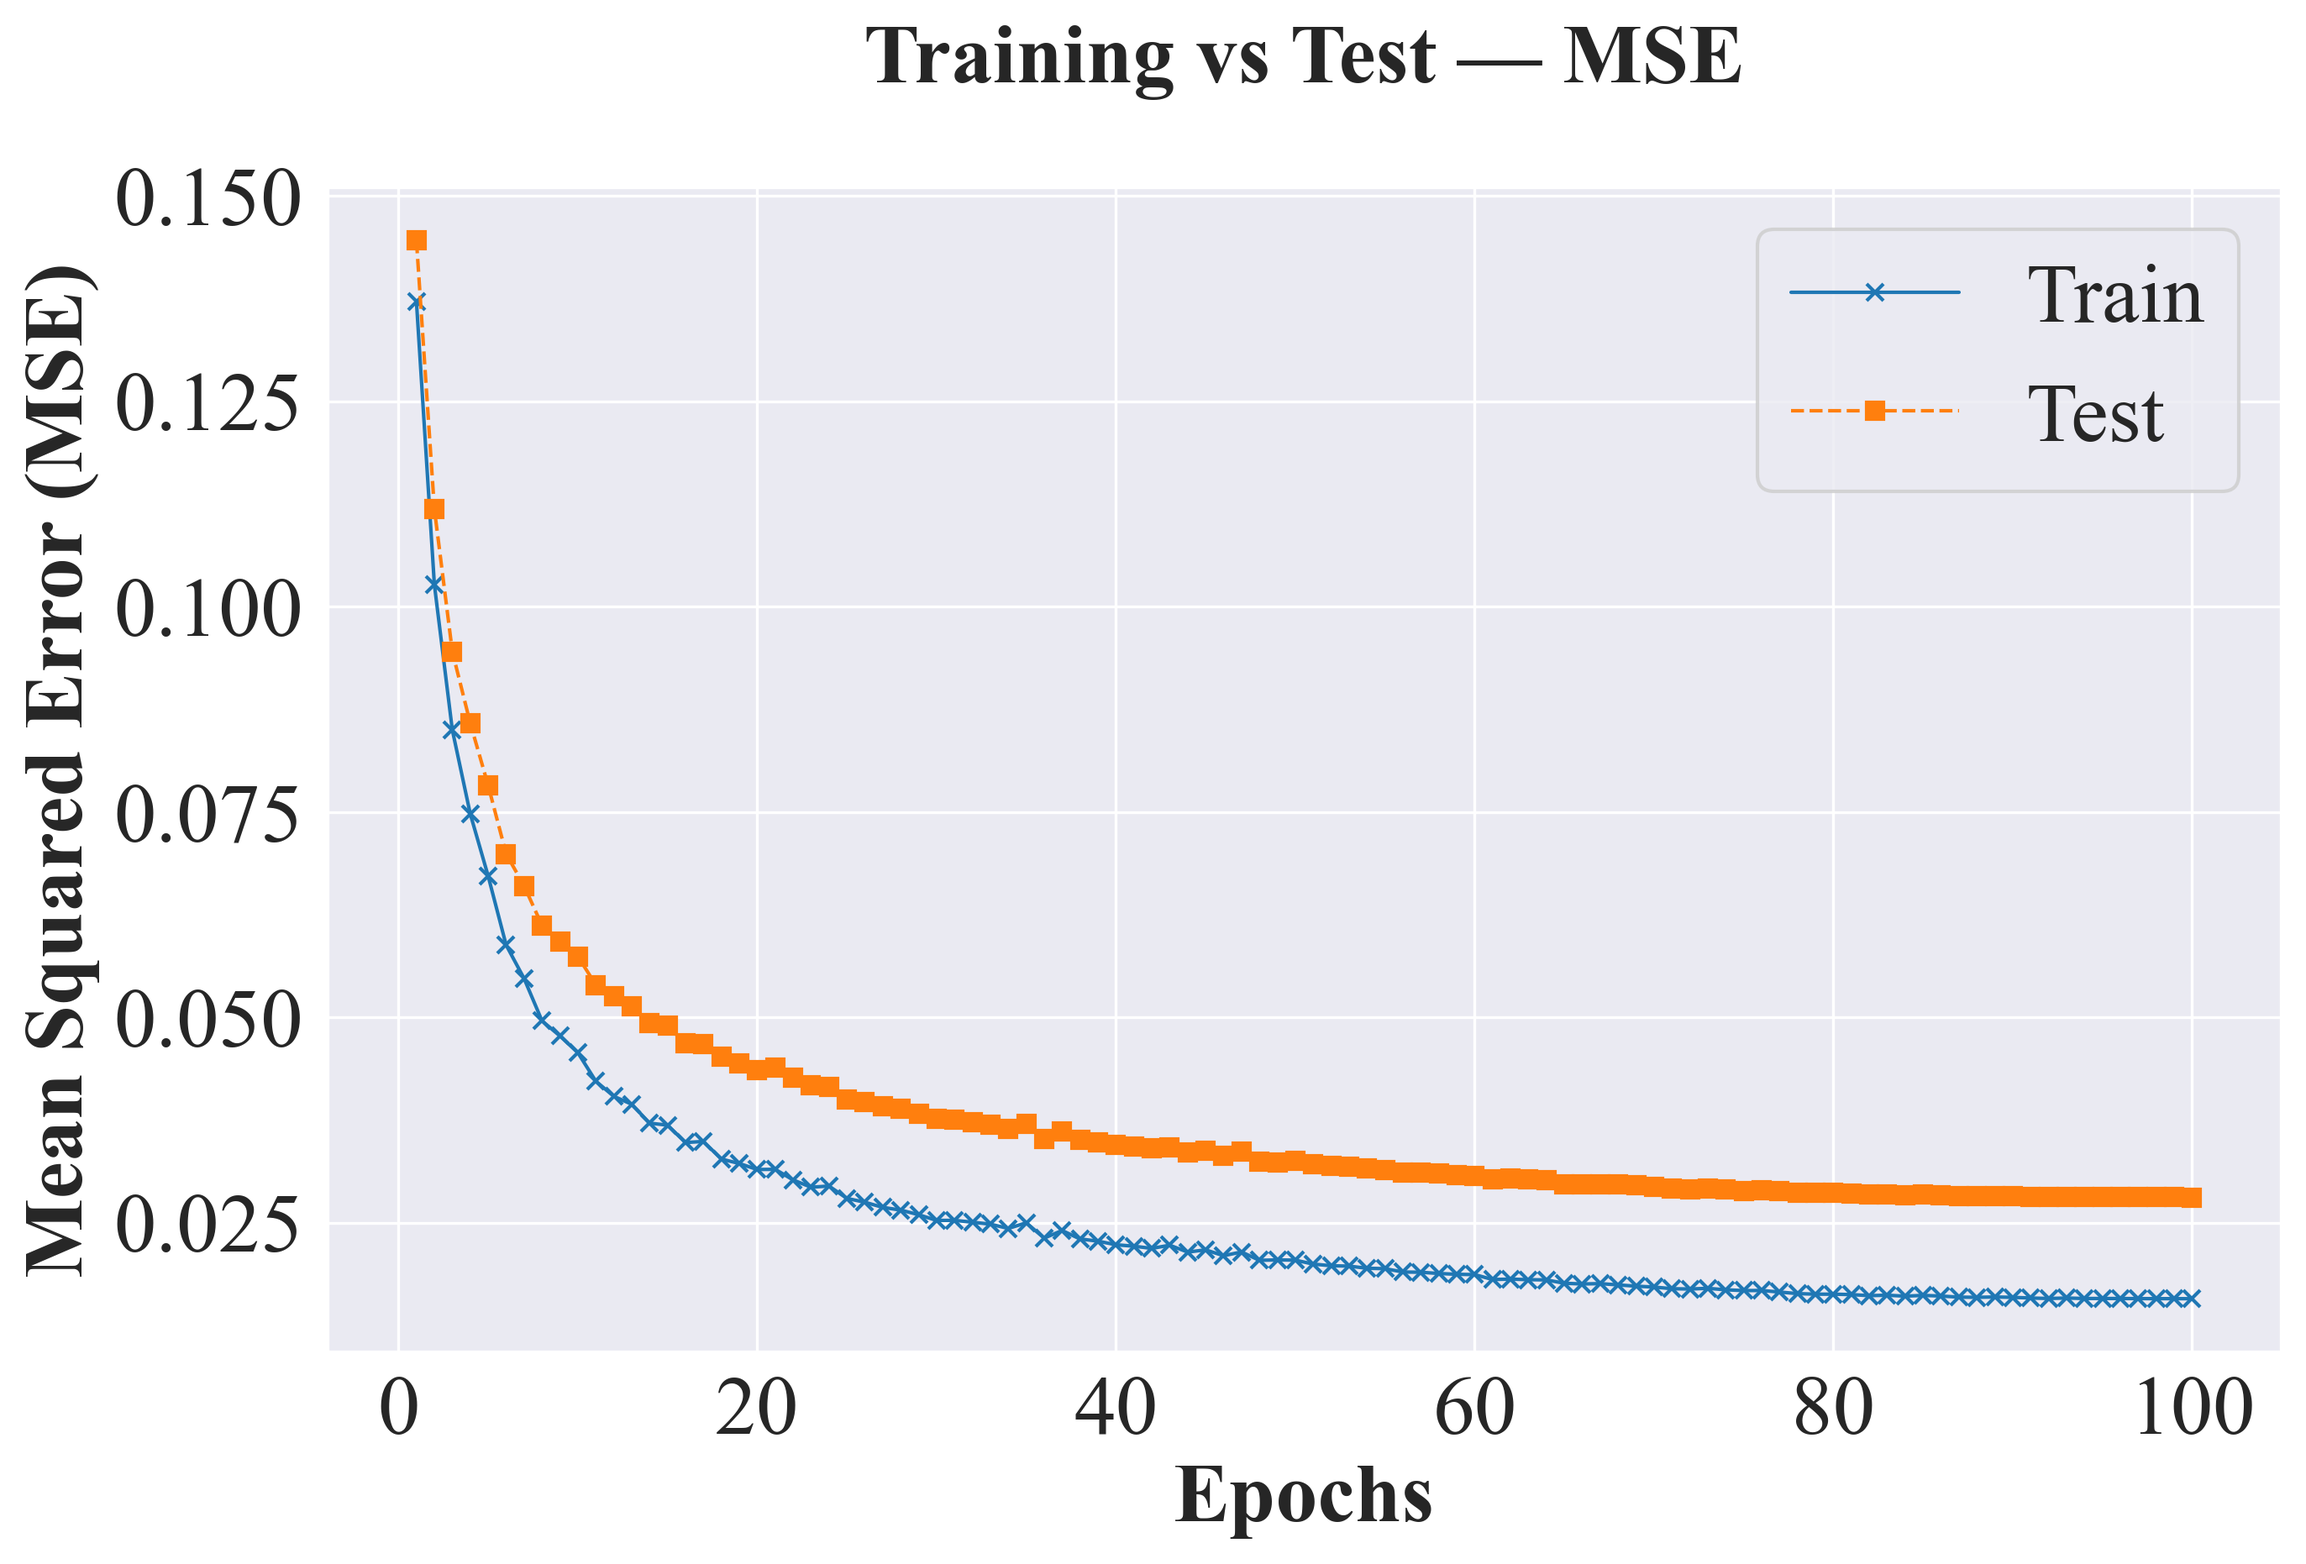
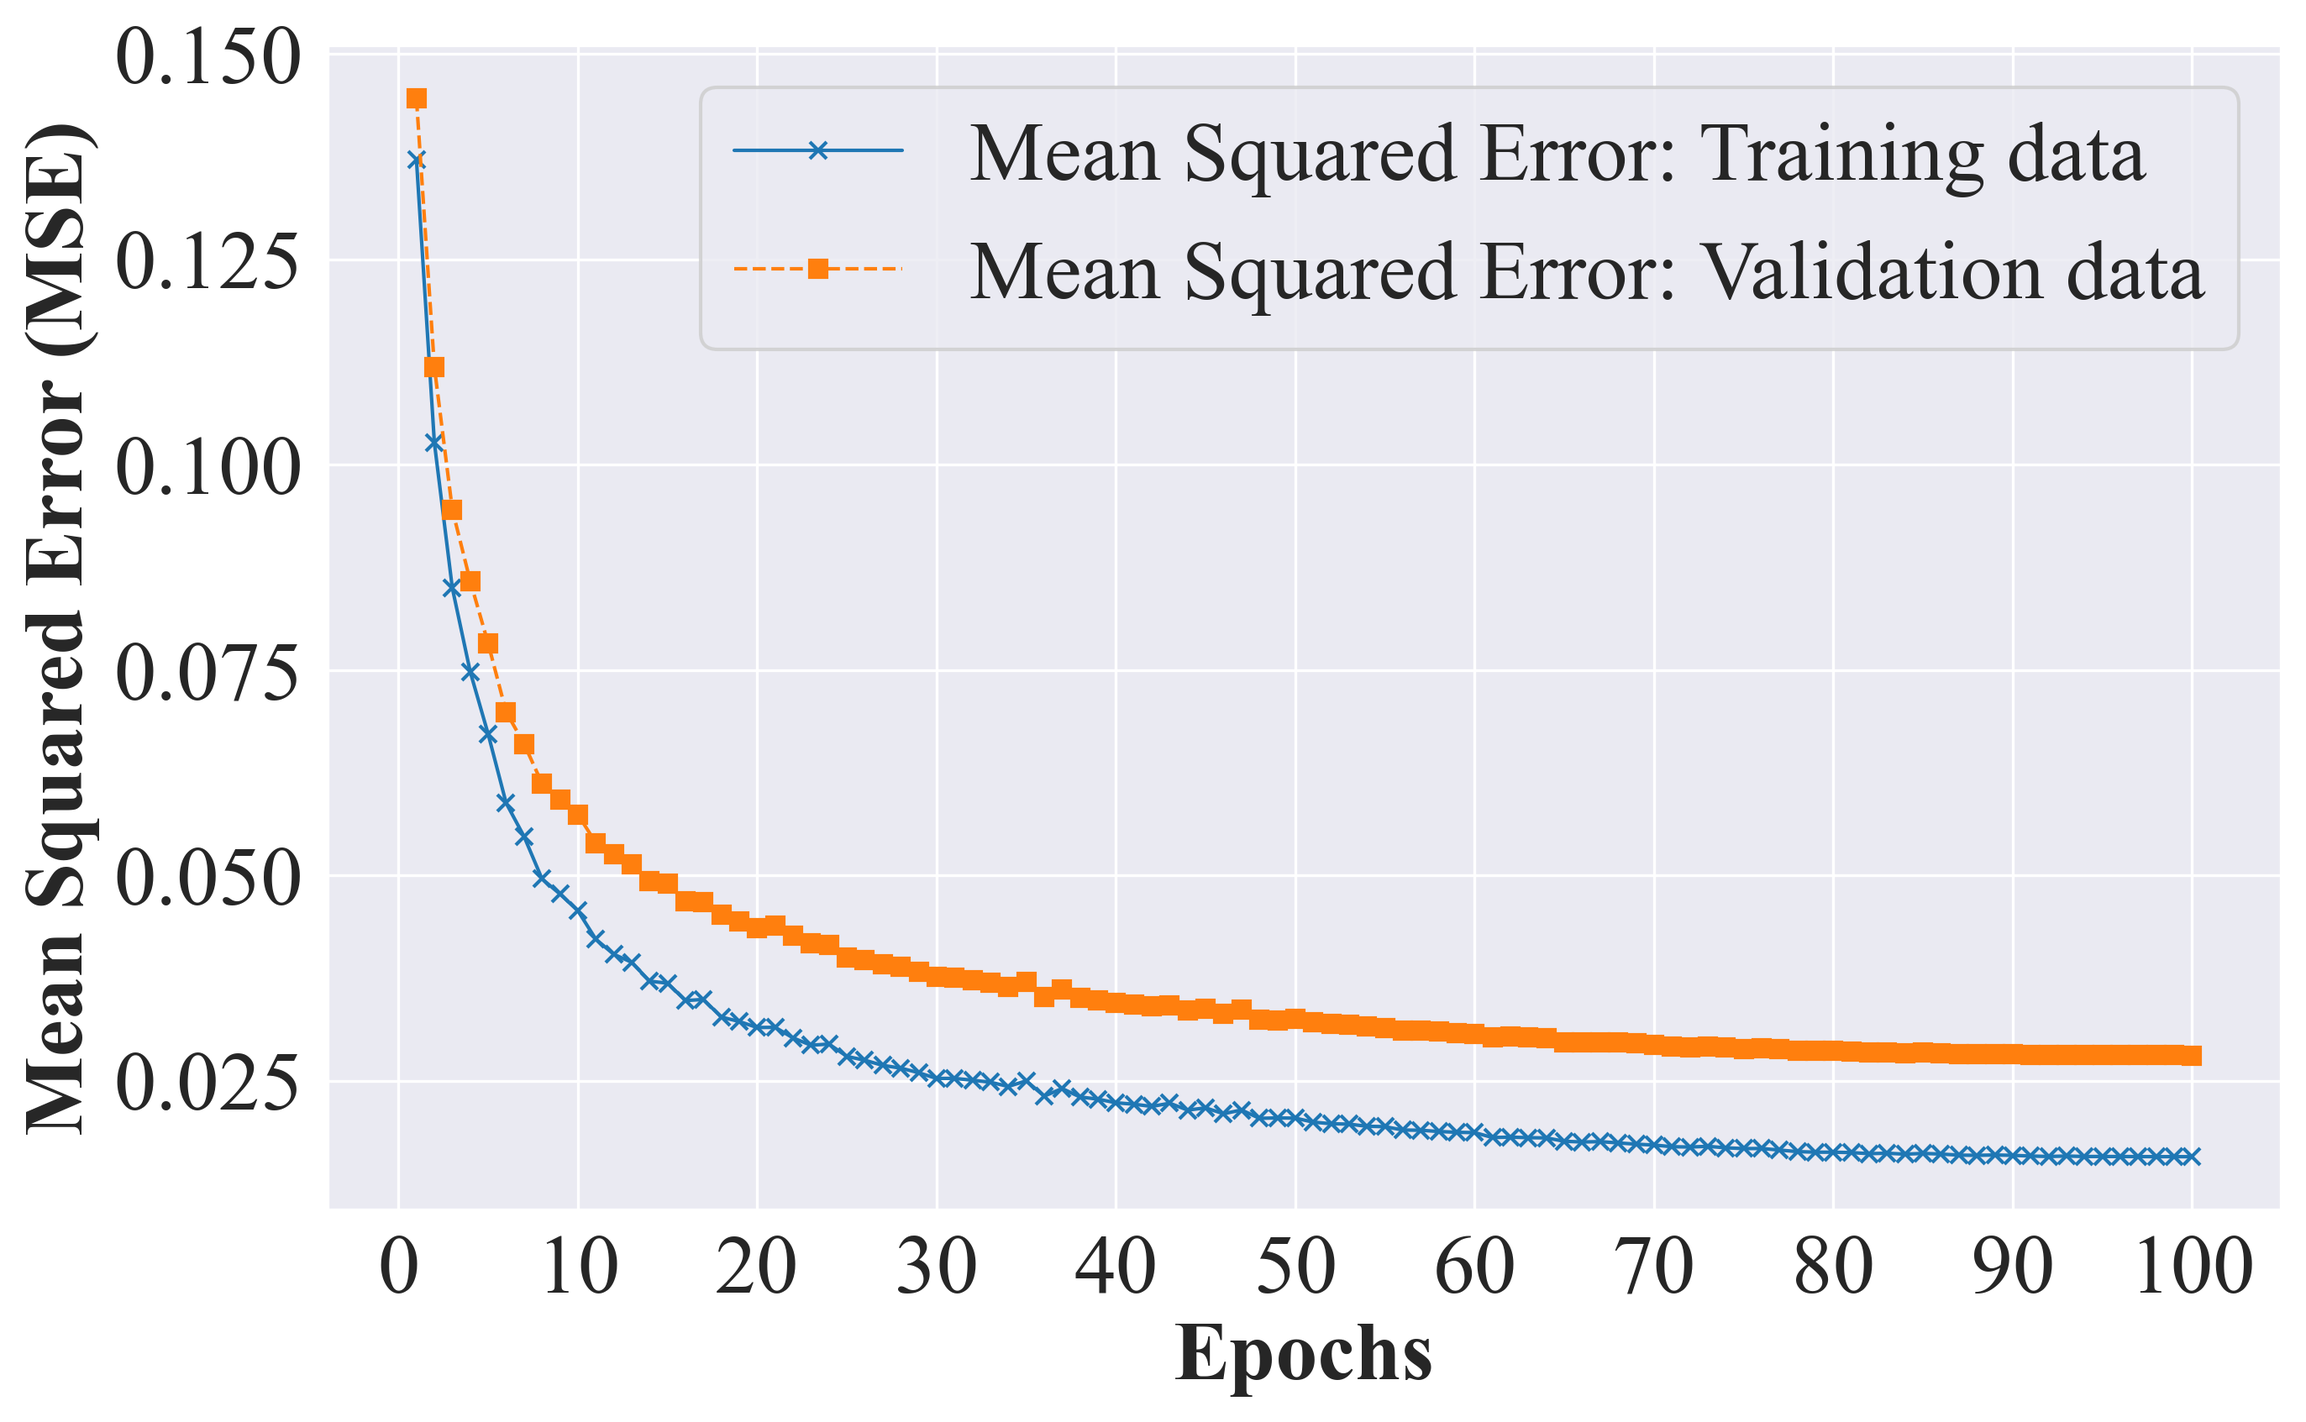
metrics for papers

diff --git a/plot_metrics.py b/plot_metrics.py
@@ -39,7 +39,7 @@ def plot_regression_metrics(
 
     texts = {
         "es": {
-            "title": "Entrenamiento vs Prueba",
+            "title": "Entrenamiento vs Validación",
             "x": "Épocas",
             "y": {
                 "mse": "Error cuadrático medio (MSE)",
@@ -48,10 +48,11 @@ def plot_regression_metrics(
                 "cc": "Correlación (CC)",
                 "lambda": "λ (OT)",
             },
-            "legend": {"train": "Entrenamiento", "test": "Prueba", "lambda": "λ (OT)"},
+            "legend_suffix": {"train": "Entrenamiento", "test": "Validación"},
+            "lambda": "λ (OT)",
         },
         "en": {
-            "title": "Training vs Test",
+            "title": "",
             "x": "Epochs",
             "y": {
                 "mse": "Mean Squared Error (MSE)",
@@ -60,7 +61,8 @@ def plot_regression_metrics(
                 "cc": "Correlation (CC)",
                 "lambda": "λ (OT)",
             },
-            "legend": {"train": "Train", "test": "Test", "lambda": "λ (OT)"},
+            "legend_suffix": {"train": "Training data", "test": "Validation data"},
+            "lambda": "λ (OT)",
         },
     }
     t = texts["es" if language == "es" else "en"]
@@ -68,6 +70,7 @@ def plot_regression_metrics(
     if save_dir:
         Path(save_dir).mkdir(parents=True, exist_ok=True)
 
+    # Estilo de líneas
     line_kw_train = dict(linewidth=1, linestyle="-", marker="x", markersize=5)
     line_kw_test = dict(linewidth=1, linestyle="--", marker="s", markersize=5)
     line_kw_lambda = dict(linewidth=1, linestyle=":", marker="d", markersize=5)
@@ -75,18 +78,31 @@ def plot_regression_metrics(
     x = df["epoch"]
 
     def plot_pair(y_train: str, y_test: str, title_suffix: str, y_label: str, fname: str):
+        """Función auxiliar para graficar entrenamiento vs validación con leyenda formateada."""
         if y_train in df.columns and y_test in df.columns:
             fig, ax = plt.subplots(figsize=(10, 6))
-            ax.plot(x, df[y_train], label=t["legend"]
-                    ["train"], **line_kw_train)
-            ax.plot(x, df[y_test],  label=t["legend"]["test"],  **line_kw_test)
-            ax.set_title(f'{t["title"]} — {title_suffix}\n',
-                         fontsize=24, fontweight="bold")
+
+            legend_base = y_label.split("(")[0].strip()
+            ax.plot(
+                x, df[y_train],
+                label=f'{legend_base}: {t["legend_suffix"]["train"]}',
+                **line_kw_train
+            )
+            ax.plot(
+                x, df[y_test],
+                label=f'{legend_base}: {t["legend_suffix"]["test"]}',
+                **line_kw_test
+            )
+
             ax.set_xlabel(t["x"], fontsize=24, fontweight="bold")
             ax.set_ylabel(y_label, fontsize=24, fontweight="bold")
+
+            ax.set_xticks(range(0, int(x.max()) + 1, 10))
+
             ax.tick_params(axis="both", labelsize=24)
             ax.legend(loc="best", fontsize=24, frameon=True, fancybox=True)
             ax.grid(True)
+
             if save_dir:
                 fig.savefig(os.path.join(save_dir, fname),
                             bbox_inches="tight", dpi=300)
@@ -96,22 +112,19 @@ def plot_regression_metrics(
                 f"[AVISO] No se graficó {title_suffix}: faltan columnas {missing}")
 
     plot_pair("train_mse", "test_mse", "MSE", t["y"]["mse"], "metric_mse.png")
-
     plot_pair("train_rmse", "test_rmse", "RMSE",
               t["y"]["rmse"], "metric_rmse.png")
-
     plot_pair("train_rrmse", "test_rrmse", "RRMSE",
               t["y"]["rrmse"], "metric_rrmse.png")
-
     plot_pair("train_cc", "test_cc", "CC", t["y"]["cc"], "metric_cc.png")
 
     if "ot_lambda_alpha" in df.columns:
         fig, ax = plt.subplots(figsize=(10, 6))
-        ax.plot(x, df["ot_lambda_alpha"], label=t["legend"]
-                ["lambda"], **line_kw_lambda)
+        ax.plot(x, df["ot_lambda_alpha"], label=t["lambda"], **line_kw_lambda)
         ax.set_title("λ (OT)\n", fontsize=24, fontweight="bold")
         ax.set_xlabel(t["x"], fontsize=24, fontweight="bold")
         ax.set_ylabel(t["y"]["lambda"], fontsize=24, fontweight="bold")
+        ax.set_xticks(range(0, int(x.max()) + 1, 10))
         ax.tick_params(axis="both", labelsize=24)
         ax.legend(loc="best", fontsize=24, frameon=True, fancybox=True)
         ax.grid(True)

diff --git a/domain_adaptation_plots.py b/domain_adaptation_plots.py
@@ -26,7 +26,6 @@ def plot_train_metrics_one(
 
     texts = {
         "es": {
-            "title": "Métricas de Divergencia",
             "x": "Épocas",
             "y": "Valores",
             "legend": {
@@ -37,7 +36,6 @@ def plot_train_metrics_one(
             "fname": "metricas_entrenamiento.png",
         },
         "en": {
-            "title": "Divergence Metrics (Training)",
             "x": "Epochs",
             "y": "Values",
             "legend": {
@@ -57,16 +55,15 @@ def plot_train_metrics_one(
     fig, ax = plt.subplots(figsize=(10, 6))
 
     style = dict(linewidth=1.5, markersize=5)
-    ax.plot(x, df["train_KL"],      ":o",
-            label=t["legend"]["kl"],     **style)
-    ax.plot(x, df["train_JSD"],     ":^",
-            label=t["legend"]["jsd"],    **style)
-    ax.plot(x, df["train_JSDist"],  ":<",
-            label=t["legend"]["jsdist"], **style)
+    ax.plot(x, df["train_KL"], ":o", label=t["legend"]["kl"], **style)
+    ax.plot(x, df["train_JSD"], ":^", label=t["legend"]["jsd"], **style)
+    ax.plot(x, df["train_JSDist"], ":<", label=t["legend"]["jsdist"], **style)
 
-    ax.set_title(t["title"], fontsize=24, fontweight="bold")
     ax.set_xlabel(t["x"], fontsize=24, fontweight="bold")
     ax.set_ylabel(t["y"], fontsize=24, fontweight="bold")
+
+    ax.set_xticks(range(0, int(x.max()) + 1, 10))
+
     ax.tick_params(axis="both", labelsize=24)
     ax.legend(loc="best", fontsize=24, frameon=True, fancybox=True)
     ax.grid(True, alpha=0.3)
@@ -74,8 +71,11 @@ def plot_train_metrics_one(
     plt.tight_layout()
 
     if save_dir:
-        fig.savefig(os.path.join(
-            save_dir, t["fname"]), bbox_inches="tight", dpi=300)
+        fig.savefig(
+            os.path.join(save_dir, t["fname"]),
+            bbox_inches="tight",
+            dpi=300
+        )
 
     plt.show()
 
